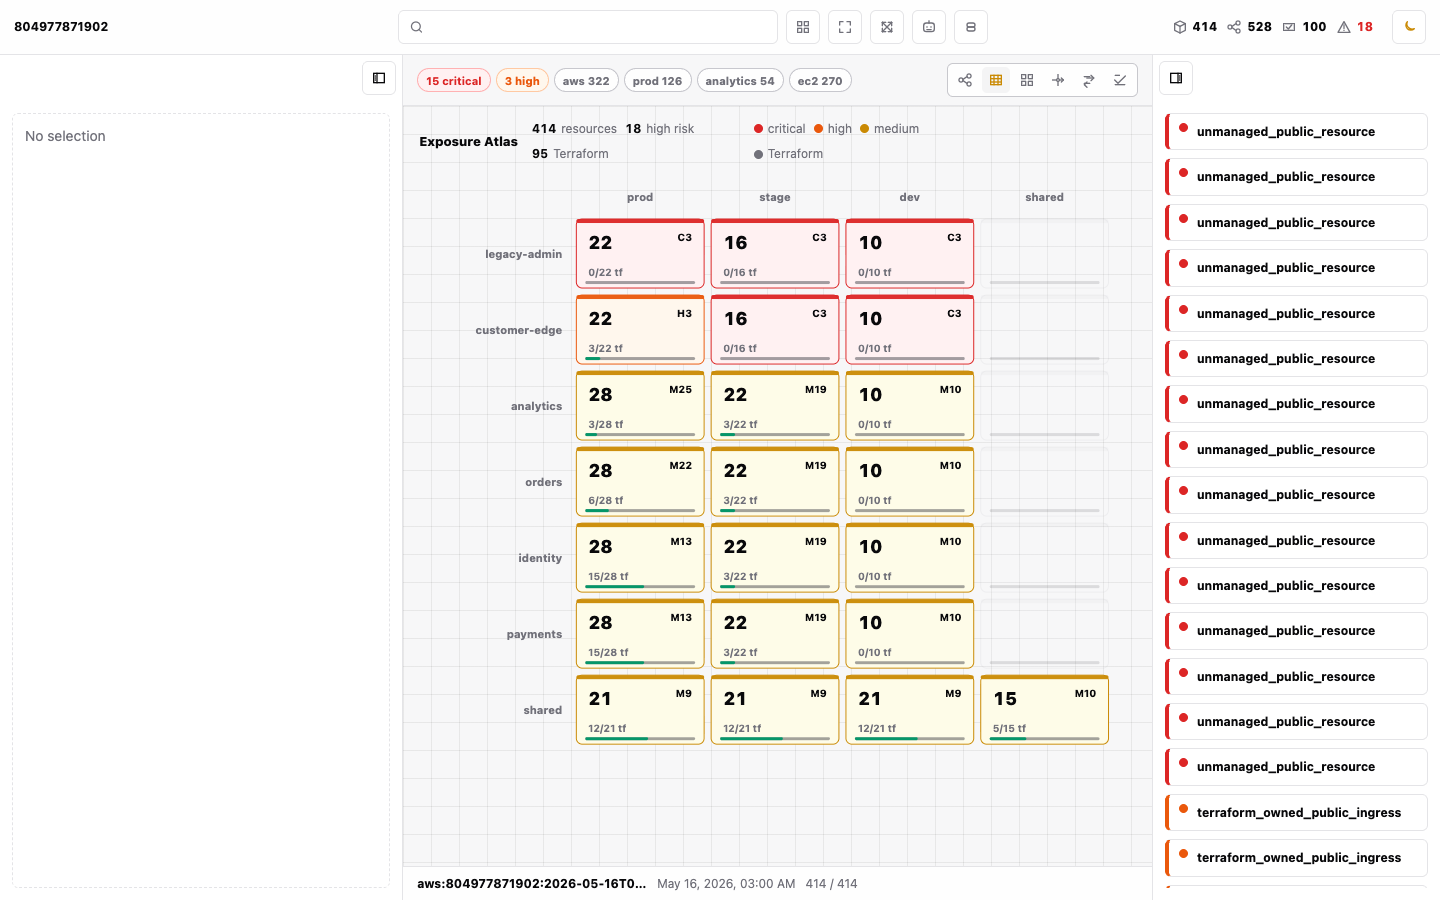
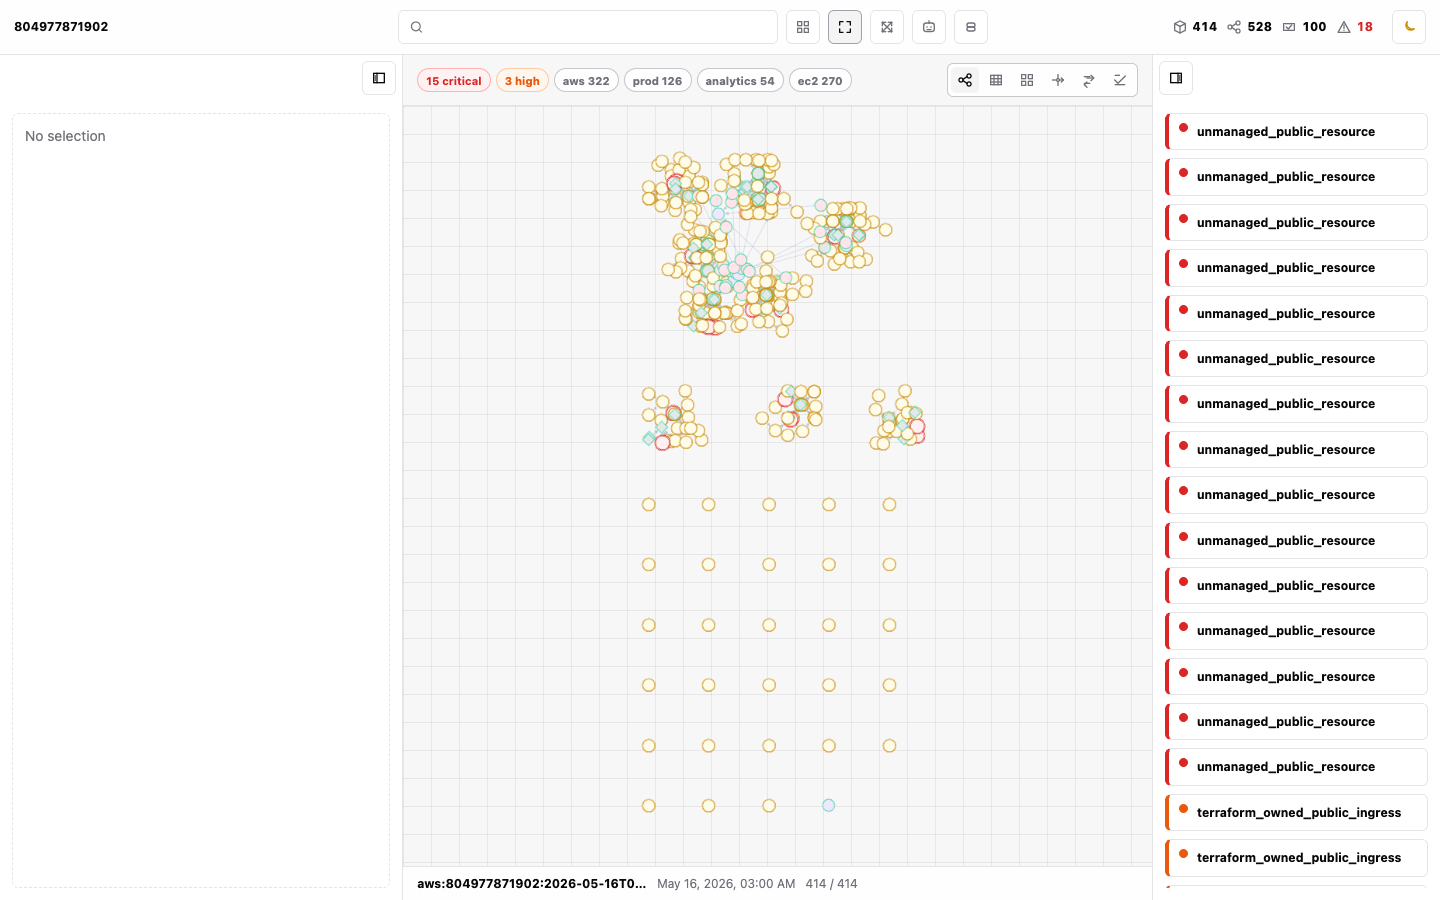
Use Cytoscape graph screenshots

Changed region(s): [[0.2812, 0.1244, 0.7812, 0.84]]

diff --git a/README.md b/README.md
@@ -28,7 +28,7 @@ sudo install -m 0755 cloudmapper /usr/local/bin/cloudmapper
 
 | AWS demo | Kubernetes demo |
 | --- | --- |
-| ![AWS demo exposure atlas showing resources and findings](docs/screenshots/aws-demo.png) | ![Kubernetes demo exposure atlas showing namespaces, workloads, and findings](docs/screenshots/k8s-demo.png) |
+| ![AWS demo Cytoscape node graph showing resources, relationships, and findings](docs/screenshots/aws-demo.png) | ![Kubernetes demo Cytoscape node graph showing resources, relationships, and findings](docs/screenshots/k8s-demo.png) |
 
 AI-generated documentation is intentionally out of scope for this phase; it can
 be layered on top of the structured store later.